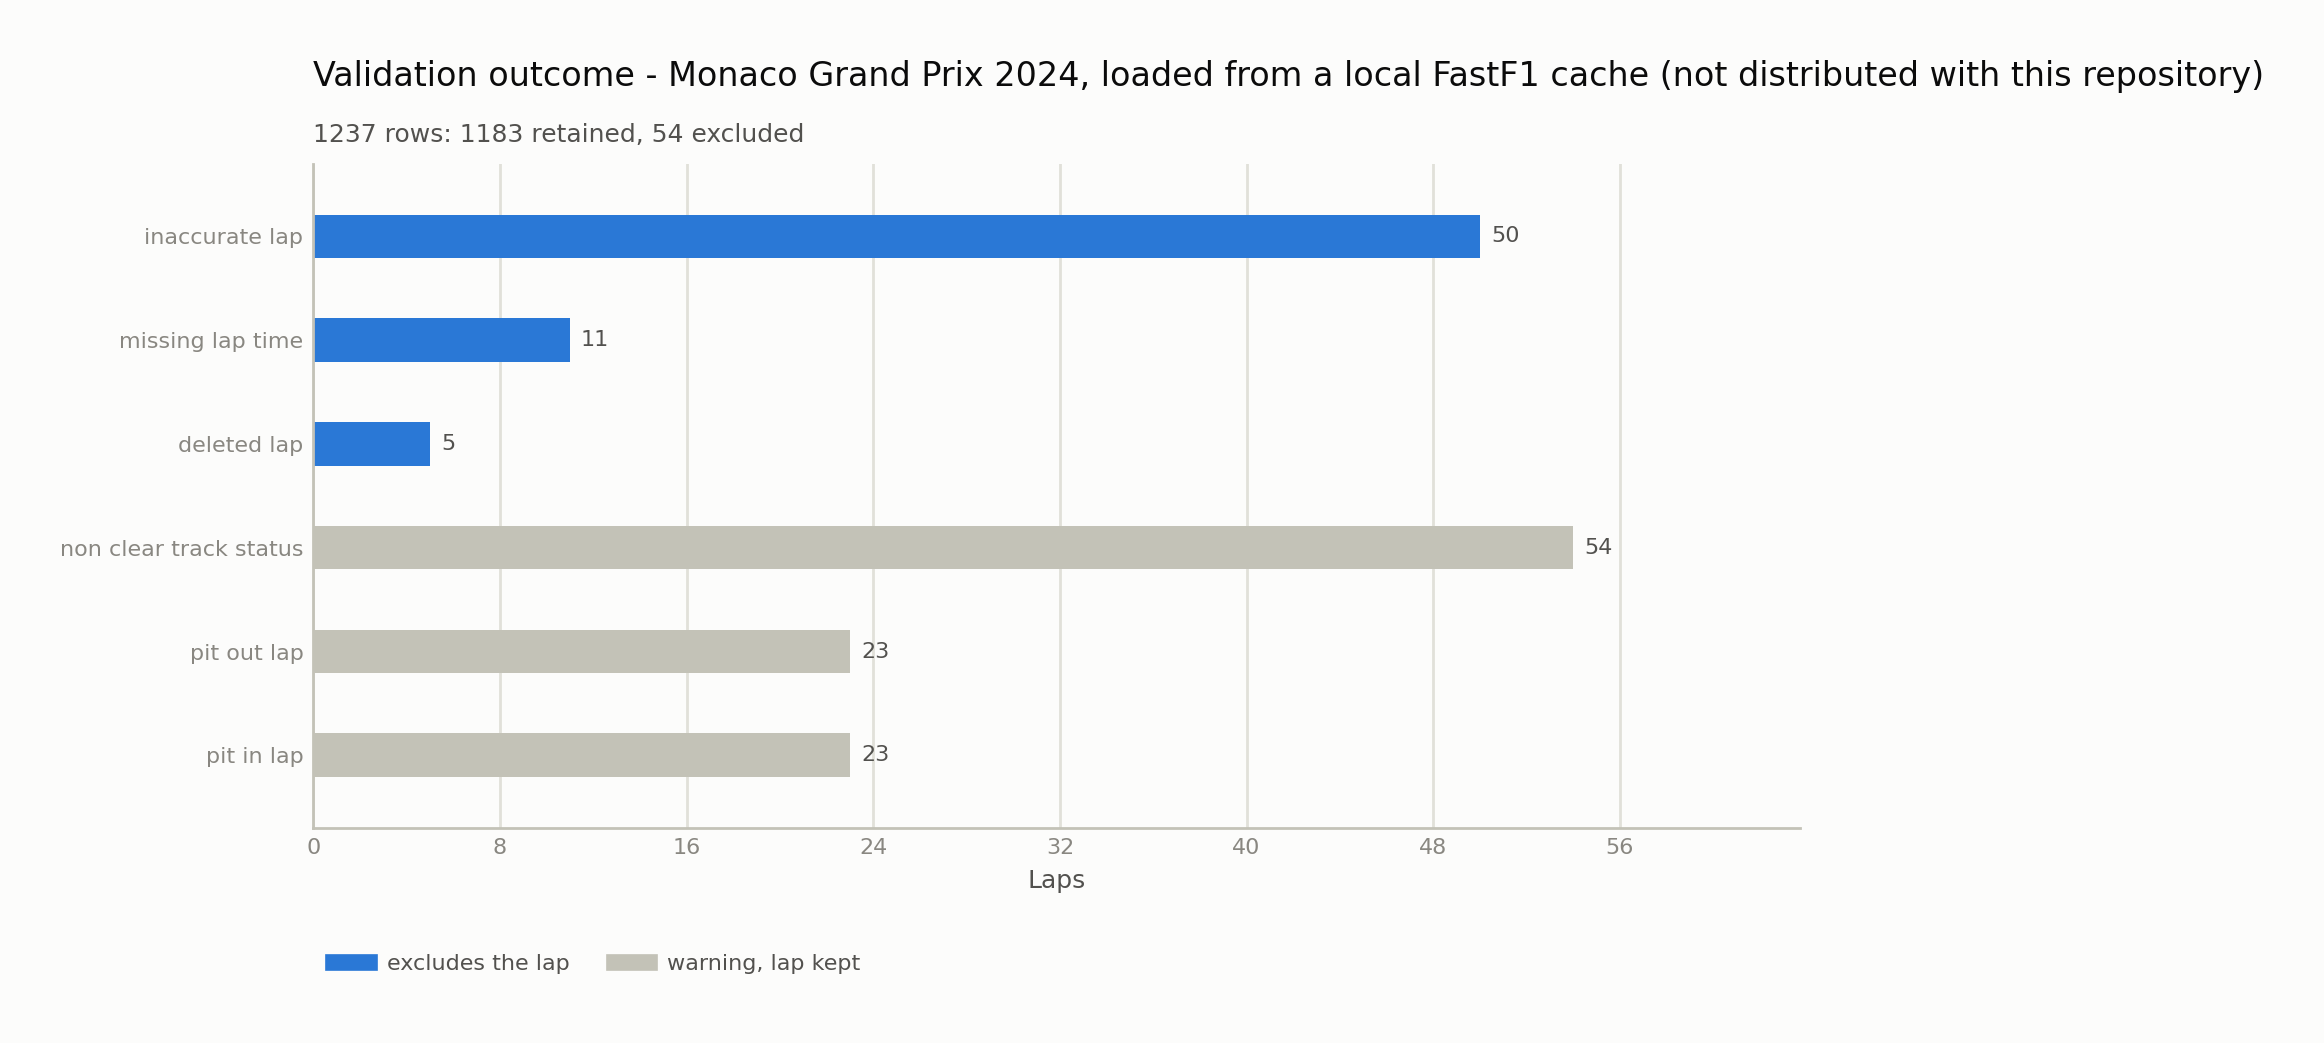
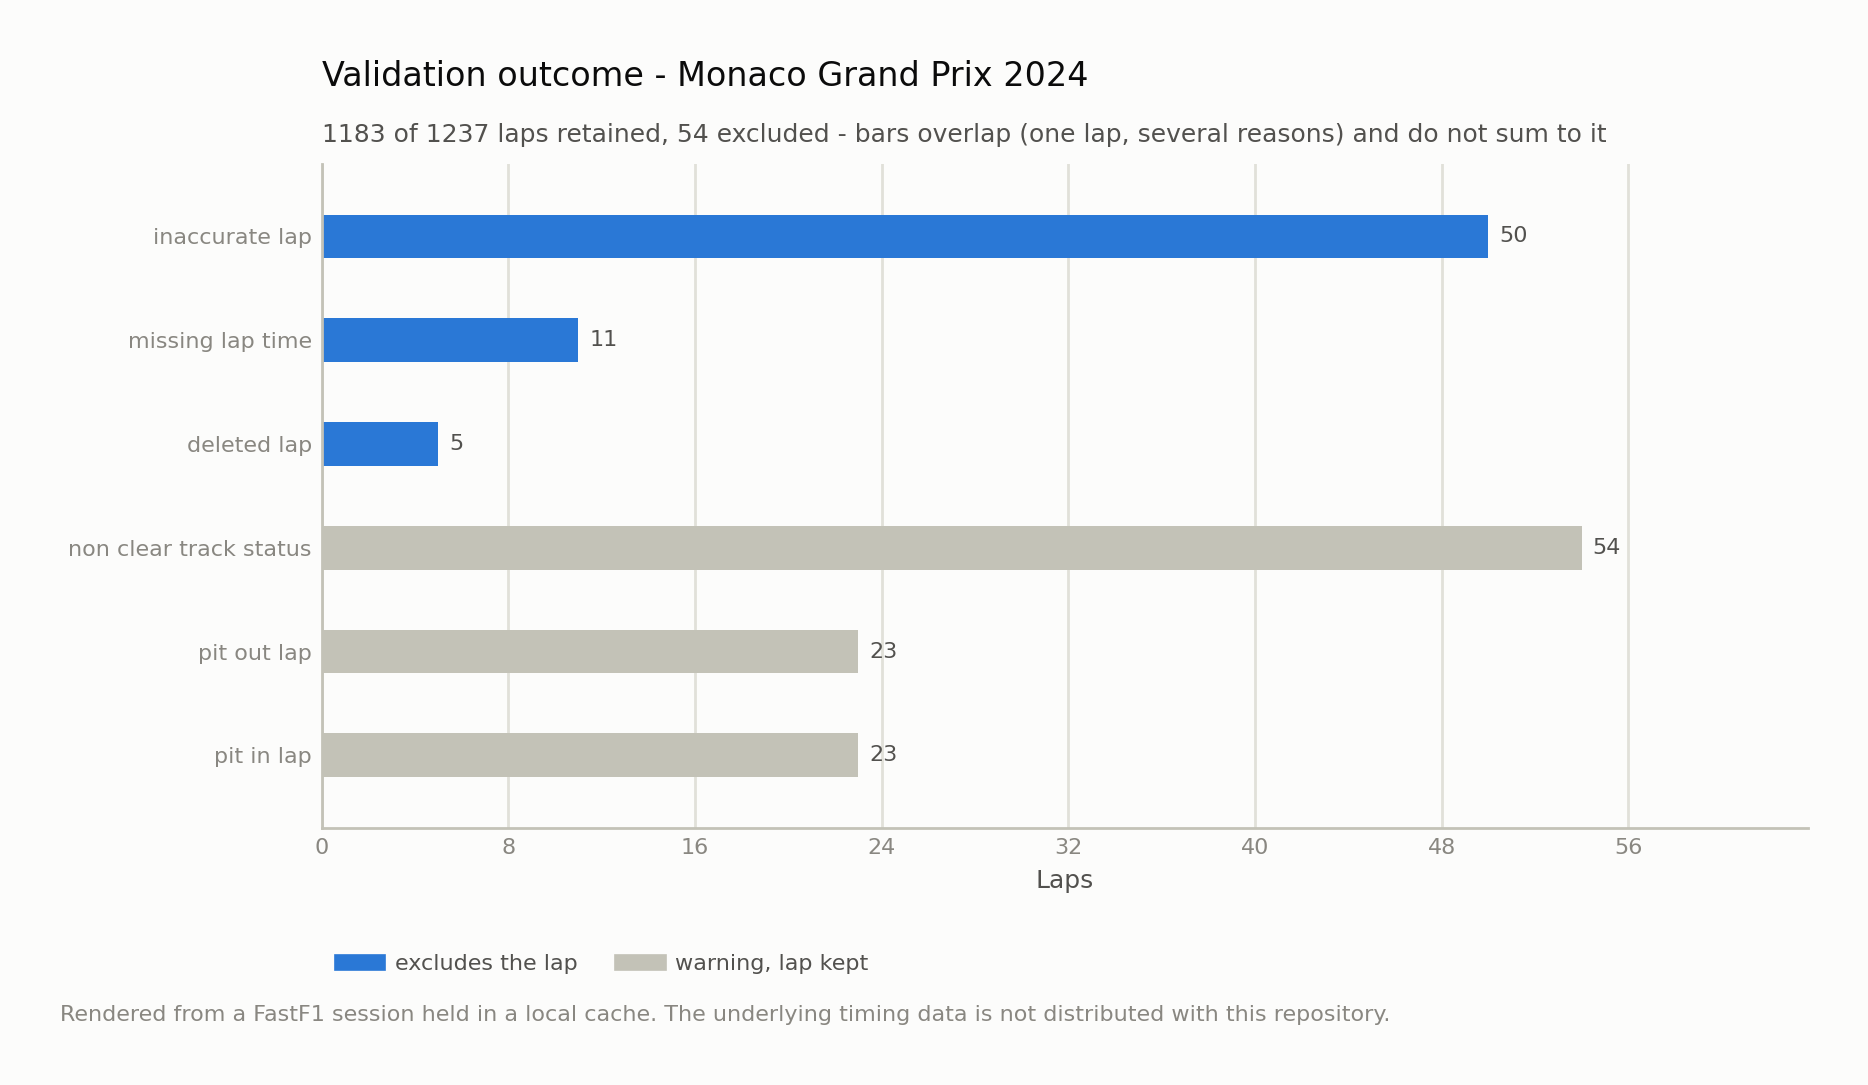
Keep provenance out of chart titles and disclose overlapping reason counts
Two reporting defects, both found by reading the rendered charts.

Provenance was in the title. "F1 LapLab pipeline - Monaco Grand Prix 2024,
loaded from a local FastF1 cache (not distributed with this repository)" is a
title doing a footnote's job; it pushed the actual subject out of view. A title
now states what the chart shows, and add_caption() puts the provenance in a
muted footnote under the figure, where it is still on every image.

Reason counts did not sum and the chart never said so. For Monaco the exclusion
bars read 50 + 11 + 5 = 66, but only 54 laps are excluded: 11 laps are both
inaccurate and missing a time, and 1 is both deleted and inaccurate. Summing the
bars is the obvious reading and it overstates exclusions by 12. The subtitle now
carries the true excluded count and states that the bars overlap, and it stays
quiet when they happen to sum exactly. Two tests cover both directions, using a
fixture with a genuinely overlapping lap rather than assuming one.

This is the same non-exclusivity the breakdown was already built around --
warnings were split from exclusions for it -- but splitting the groups does not
reveal that reasons overlap *within* a group. Grouping was necessary, not
sufficient.

Verified: pytest -m "not network" 104 passed, 1 deselected; ruff clean; mypy
strict clean over 35 source files.

diff --git a/examples/render_figures.py b/examples/render_figures.py
@@ -28,6 +28,7 @@ from f1strategy.telemetry.validation import validate_laps_with_report
 from f1strategy.visualization import (
     THEMES,
     Theme,
+    add_caption,
     feature_target_figure,
     history_depth_figure,
     lap_time_trace_figure,
@@ -51,7 +52,8 @@ def _render(
     session: LoadedSession,
     *,
     prefix: str,
-    note: str,
+    label: str,
+    caption: str,
     highlight: list[str] | None,
 ) -> list[Path]:
     report = validate_laps_with_report(session.laps)
@@ -64,24 +66,25 @@ def _render(
             dataset,
             highlight=highlight,
             theme=theme,
-            title=f"F1 LapLab pipeline - {note}",
+            title=f"F1 LapLab pipeline - {label}",
         ),
         "lap-times": lap_time_trace_figure(
-            session, highlight=highlight, theme=theme, title=f"Lap times - {note}"
+            session, highlight=highlight, theme=theme, title=f"Lap times - {label}"
         ),
         "validation": validation_breakdown_figure(
-            report, theme=theme, title=f"Validation outcome - {note}"
+            report, theme=theme, title=f"Validation outcome - {label}"
         ),
         "history-depth": history_depth_figure(
-            dataset, theme=theme, title=f"Prior-history depth - {note}"
+            dataset, theme=theme, title=f"Prior-history depth - {label}"
         ),
         "feature-target": feature_target_figure(
-            dataset, theme=theme, title=f"Predictor vs label - {note}"
+            dataset, theme=theme, title=f"Predictor vs label - {label}"
         ),
     }
 
     written: list[Path] = []
     for name, figure in figures.items():
+        add_caption(figure, caption, theme)
         path = out_dir / f"{prefix}{name}-{theme.name}.png"
         figure.savefig(
             path, facecolor=theme.surface, bbox_inches="tight", pad_inches=0.3
@@ -123,14 +126,16 @@ def main() -> None:
         year, grand_prix, session_code = args.session
         print(f"Loading {year} {grand_prix} {session_code} through FastF1 (uses cache).")
         session = _load_real_session(int(year), grand_prix, session_code)
-        note = (
-            f"{session.metadata.event_name} {year}, "
-            "loaded from a local FastF1 cache (not distributed with this repository)"
+        label = f"{session.metadata.event_name} {year}"
+        caption = (
+            "Rendered from a FastF1 session held in a local cache. The underlying "
+            "timing data is not distributed with this repository."
         )
     else:
         print("Rendering from the synthetic fixture (no network, no cache access).")
         session = build_synthetic_session()
-        note = SYNTHETIC_NOTE
+        label = "synthetic demonstration"
+        caption = SYNTHETIC_NOTE
 
     for theme in THEMES.values():
         for path in _render(
@@ -138,7 +143,8 @@ def main() -> None:
             theme,
             session,
             prefix=args.prefix,
-            note=note,
+            label=label,
+            caption=caption,
             highlight=args.highlight,
         ):
             print(f"  {path}  ({path.stat().st_size / 1024:.0f} KB)")

diff --git a/tests/visualization/test_figures.py b/tests/visualization/test_figures.py
@@ -26,6 +26,7 @@ from f1strategy.visualization import (
     DARK,
     EXCLUSION_REASONS,
     LIGHT,
+    add_caption,
     default_highlight,
     feature_target_figure,
     history_depth_figure,
@@ -229,6 +230,65 @@ def test_validation_breakdown_separates_exclusions_from_warnings(
 def _rgb(hex_colour: str) -> tuple[float, float, float]:
     raw = hex_colour.lstrip("#")
     return tuple(int(raw[i : i + 2], 16) / 255 for i in (0, 2, 4))  # type: ignore[return-value]
+
+
+def test_validation_subtitle_warns_when_reason_bars_do_not_sum(
+    raw_fastf1_laps: pd.DataFrame,
+) -> None:
+    """Overlapping reasons make the bars sum higher than the exclusion total.
+
+    Summing them is the natural reading and it is wrong, so the chart has to say
+    so. Without this the reader silently overcounts exclusions. Lap 2 below is
+    both inaccurate and missing a time, which is the common real-world overlap.
+    """
+    overlapping = _loaded_session(
+        _raw_rows(
+            raw_fastf1_laps,
+            [
+                {"lap": 1, "time_s": 90.0},
+                {"lap": 2, "time_s": None, "accurate": False},
+                {"lap": 3, "time_s": 92.0, "deleted": True},
+                {"lap": 4, "time_s": 93.0},
+            ],
+        )
+    )
+    report = validate_laps_with_report(overlapping.laps)
+    charted = sum(
+        count for reason, count in report.reason_counts if reason in EXCLUSION_REASONS
+    )
+    assert charted > report.excluded_rows, "fixture must have an overlapping reason"
+
+    figure = validation_breakdown_figure(report)
+    subtitle = " ".join(text.get_text() for text in figure.axes[0].texts)
+    assert f"{report.excluded_rows} excluded" in subtitle
+    assert "do not sum" in subtitle
+
+
+def test_validation_subtitle_stays_quiet_when_bars_do_sum(
+    raw_fastf1_laps: pd.DataFrame,
+) -> None:
+    single = _loaded_session(
+        _raw_rows(
+            raw_fastf1_laps,
+            [{"lap": 1, "time_s": 90.0}, {"lap": 2, "time_s": 91.0, "deleted": True}],
+        )
+    )
+    report = validate_laps_with_report(single.laps)
+    charted = sum(
+        count for reason, count in report.reason_counts if reason in EXCLUSION_REASONS
+    )
+    assert charted == report.excluded_rows
+    subtitle = " ".join(
+        text.get_text() for text in validation_breakdown_figure(report).axes[0].texts
+    )
+    assert "do not sum" not in subtitle
+
+
+def test_add_caption_puts_provenance_below_the_figure(session: LoadedSession) -> None:
+    figure = lap_time_trace_figure(session)
+    add_caption(figure, "Rendered from a local cache.")
+    captions = [t.get_text() for t in figure.texts]
+    assert "Rendered from a local cache." in captions
 
 
 def test_validation_breakdown_handles_a_clean_session(

diff --git a/src/f1strategy/visualization/figures.py b/src/f1strategy/visualization/figures.py
@@ -101,6 +101,43 @@ def _legend(
     legend.set_zorder(6)
 
 
+def _validation_subtitle(report: LapValidationReport) -> str:
+    """Summarise an outcome, flagging that reason bars do not sum to the total.
+
+    One lap can carry several reasons, so adding the exclusion bars overstates
+    the number of excluded laps. Saying so on the chart is the only way a reader
+    can tell; the grouping alone does not reveal it.
+    """
+    base = (
+        f"{report.retained_rows} of {report.input_rows} laps retained, "
+        f"{report.excluded_rows} excluded"
+    )
+    charted = sum(
+        count for reason, count in report.reason_counts if reason in EXCLUSION_REASONS
+    )
+    if charted == report.excluded_rows:
+        return base
+    return base + " - bars overlap (one lap, several reasons) and do not sum to it"
+
+
+def add_caption(figure: Figure, text: str, theme: Theme = LIGHT) -> None:
+    """Add a provenance footnote beneath a figure.
+
+    Provenance belongs here rather than in the title: a title states what the
+    chart shows, and a long parenthetical about where the data came from pushes
+    that out of view.
+    """
+    figure.text(
+        0.012,
+        0.005,
+        text,
+        color=theme.ink_muted,
+        fontsize=8,
+        ha="left",
+        va="bottom",
+    )
+
+
 def _human(reason: str) -> str:
     return reason.replace("_", " ")
 
@@ -429,8 +466,7 @@ def validation_breakdown_figure(
         ax,
         theme,
         title or "Canonical validation outcome",
-        f"{report.input_rows} rows: {report.retained_rows} retained, "
-        f"{report.excluded_rows} excluded",
+        _validation_subtitle(report),
     )
     figure.tight_layout()
     return figure
@@ -511,7 +547,7 @@ def pipeline_overview_figure(
         breakdown_ax,
         theme,
         "2. Validation outcome",
-        f"{report.retained_rows} of {report.input_rows} rows retained",
+        _validation_subtitle(report),
     )
 
     depth_ax = figure.add_subplot(grid[1, 0])

diff --git a/src/f1strategy/visualization/__init__.py b/src/f1strategy/visualization/__init__.py
@@ -8,6 +8,7 @@ posts, where interactive output does not render.
 
 from f1strategy.visualization.figures import (
     EXCLUSION_REASONS,
+    add_caption,
     default_highlight,
     feature_target_figure,
     history_depth_figure,
@@ -23,6 +24,7 @@ __all__ = [
     "LIGHT",
     "THEMES",
     "Theme",
+    "add_caption",
     "default_highlight",
     "feature_target_figure",
     "history_depth_figure",

diff --git a/README.md b/README.md
@@ -143,10 +143,12 @@ and the predictor against its label.
        src="docs/images/monaco-pipeline-overview-light.png">
 </picture>
 
-Reading them in order: 1183 of 1237 laps survive canonical validation, with the
-exclusions (inaccurate, missing time, deleted) kept separate from the warnings
-that leave a lap eligible (pit in/out, non-clear track status). 1106 target laps
-have all three prior slots available. The predictor tracks the label closely but
+Reading them in order: 1183 of 1237 laps survive canonical validation, so 54 are
+excluded. The reason bars sum higher than 54 because they overlap -- 11 laps are
+both inaccurate and missing a time -- and the chart says so rather than leaving
+the reader to add them up. Exclusions are kept separate from warnings that leave
+a lap eligible (pit in/out, non-clear track status). 1106 target laps have all
+three prior slots available. The predictor tracks the label closely but
 not exactly, and that gap is what any later model would have to earn.
 
 The lap-time axis is scaled to racing pace, and laps outside that range are
